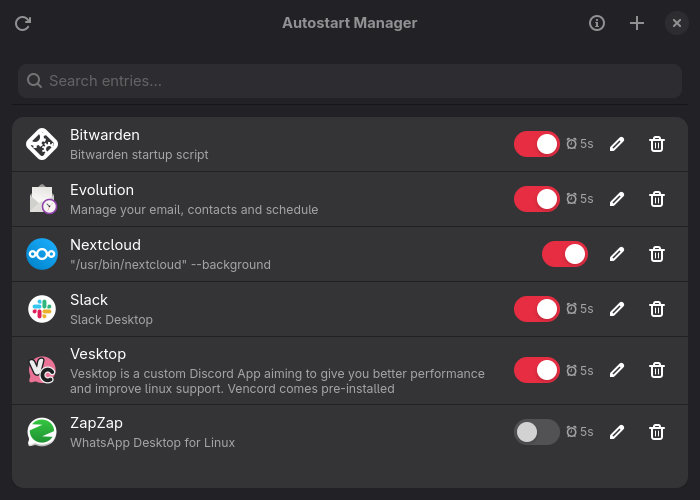
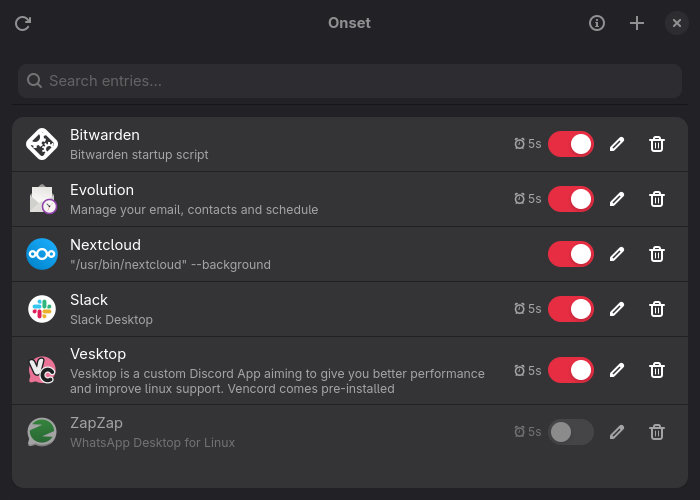
Move delay indicators before toggle for alignment (#14)
* move delay/warning indicators before toggle for consistent alignment

* fix dim-label not clearing on re-enable, update screenshot

diff --git a/src/ui/autostart_row.rs b/src/ui/autostart_row.rs
@@ -48,11 +48,17 @@ where
 
     let entry_path = entry.path.clone();
     let entry_id = entry.id.clone();
+    let toggle_row = row.clone();
 
     toggle.connect_state_set(move |_, state| {
         match crate::operations::set_entry_enabled_by_path(&entry_path, state) {
             Ok(_) => {
                 tracing::info!("Toggled {} to {}", entry_id, state);
+                if state {
+                    toggle_row.remove_css_class("dim-label");
+                } else {
+                    toggle_row.add_css_class("dim-label");
+                }
             }
             Err(e) => {
                 tracing::error!("Failed to toggle {}: {}", entry_id, e);
@@ -61,8 +67,6 @@ where
 
         glib::Propagation::Proceed
     });
-
-    row.add_suffix(&toggle);
 
     let info_box = gtk4::Box::builder()
         .orientation(gtk4::Orientation::Horizontal)
@@ -116,6 +120,7 @@ where
     }
 
     row.add_suffix(&info_box);
+    row.add_suffix(&toggle);
 
     if entry.effective_state == EffectiveState::Disabled {
         row.add_css_class("dim-label");
